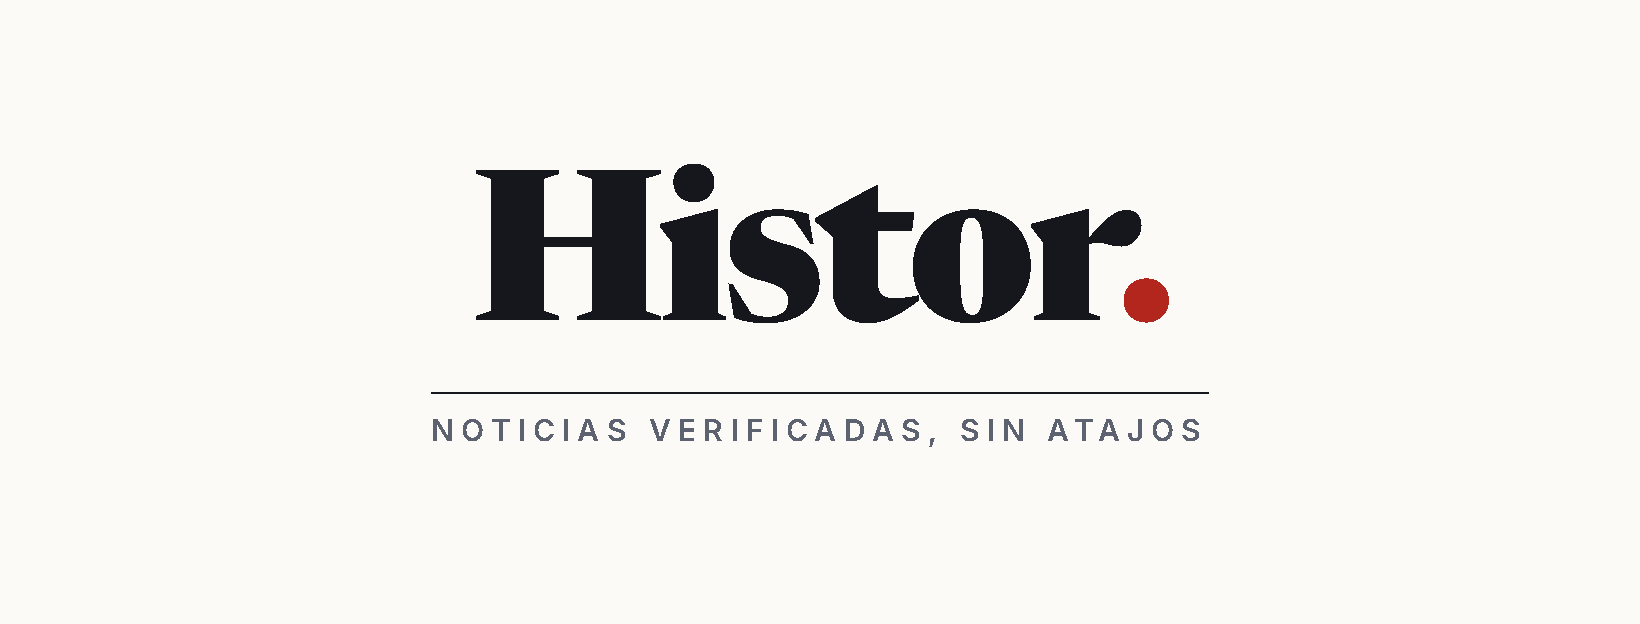
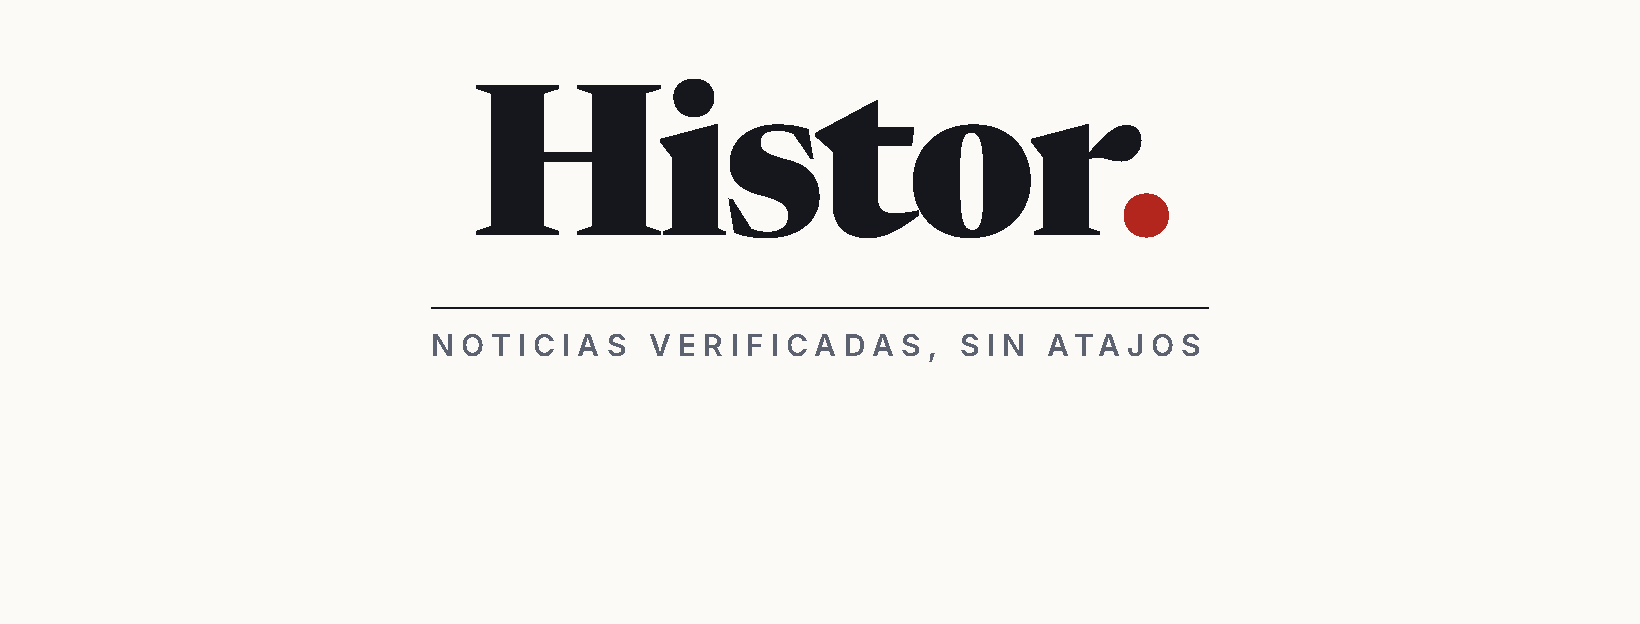
Con AdSense, en Europa manda el mensaje de consentimiento de Google y el nuestro toma de él la respuesta
Fuera del EEE (Google no pregunta) o si su CMP no carga, sale el nuestro como siempre.
Portada de Facebook con el texto arriba (la foto de perfil tapaba el lema).

diff --git a/histor/apps/web/src/components/client/CookieConsent.tsx b/histor/apps/web/src/components/client/CookieConsent.tsx
@@ -6,22 +6,80 @@ type Labels = { title: string; text: string; acceptAll: string; rejectAll: strin
 const OPTIONAL = ['preferences', 'analytics', 'personalization', 'marketing'] as const;
 const CONSENT_VERSION = '1';
 
-export function CookieConsent({ labels, policyHref }: { labels: Labels; policyHref: string }) {
+type TcData = { gdprApplies?: boolean; eventStatus?: string; purpose?: { consents?: Record<string, boolean> } };
+type TcfWindow = Window & {
+  __tcfapi?: (cmd: string, version: number, cb: (tc: TcData, ok: boolean) => void) => void;
+  googlefc?: { callbackQueue: unknown[]; showRevocationMessage?: () => void };
+};
+
+/**
+ * Con anuncios (AdSense), en el EEE, Reino Unido y Suiza manda el mensaje de consentimiento de
+ * Google (CMP certificada, obligatoria para servir anuncios): el nuestro no sale para no pedir
+ * dos veces, y lo que el lector elige allí (propósitos TCF) se traslada a nuestras categorías.
+ * Fuera de esa zona Google no pregunta y sale el nuestro, como siempre; también si su CMP no
+ * carga (bloqueadores). 03-10-2026.
+ */
+function fromTcf(tc: TcData): Set<string> {
+  const p = tc.purpose?.consents ?? {};
+  const out = new Set<string>();
+  if (!p['1']) return out; // sin «guardar y leer información en el dispositivo», nada
+  out.add('preferences');
+  if (p['8'] || p['9']) out.add('analytics');
+  if (p['5'] || p['6']) out.add('personalization');
+  if (p['3'] || p['4']) out.add('marketing');
+  return out;
+}
+
+export function CookieConsent({ labels, policyHref, ads = false }: { labels: Labels; policyHref: string; ads?: boolean }) {
   const [open, setOpen] = useState(false);
   const [custom, setCustom] = useState(false);
   const [choice, setChoice] = useState<Set<string>>(new Set());
 
   useEffect(() => {
+    const w = window as TcfWindow;
     const has = document.cookie.includes('histor_consent_v=');
-    if (!has) setOpen(true);
     setChoice(consentOf());
+    let googleAsks = false;
+    let timer: ReturnType<typeof setTimeout> | null = null;
+    if (ads) {
+      let tries = 0;
+      const attach = () => {
+        if (!w.__tcfapi) {
+          // Sin CMP de Google al cabo de 4 s (bloqueador de anuncios): el nuestro.
+          if (++tries > 20) {
+            if (!has) setOpen(true);
+            return;
+          }
+          timer = setTimeout(attach, 200);
+          return;
+        }
+        w.__tcfapi('addEventListener', 2, (tc, ok) => {
+          if (!ok) return;
+          if (tc.gdprApplies === false) {
+            if (!has) setOpen(true);
+            return;
+          }
+          googleAsks = true;
+          if (tc.eventStatus === 'useractioncomplete' || tc.eventStatus === 'tcloaded') save(fromTcf(tc));
+        });
+      };
+      attach();
+    } else if (!has) setOpen(true);
     const reopen = () => {
+      // «Configurar cookies» del pie: donde pregunta Google, se reabre su mensaje.
+      if (googleAsks && w.googlefc?.showRevocationMessage) {
+        w.googlefc.callbackQueue.push(w.googlefc.showRevocationMessage);
+        return;
+      }
       setOpen(true);
       setCustom(true);
     };
     window.addEventListener('histor:consent', reopen);
-    return () => window.removeEventListener('histor:consent', reopen);
-  }, []);
+    return () => {
+      if (timer) clearTimeout(timer);
+      window.removeEventListener('histor:consent', reopen);
+    };
+  }, [ads]);
 
   const save = (set: Set<string>) => {
     setCookie('histor_consent', [...set].join(','), 365);

diff --git a/histor/docs/marketing/perfil.html b/histor/docs/marketing/perfil.html
@@ -12,7 +12,8 @@
   .mark { font-weight: 800; font-variation-settings: 'opsz' 72; font-size: 620px; letter-spacing: -0.04em; line-height: 1; margin-top: -40px; }
   .dot { color: #b3261e; }
   /* Portada: cabecera completa con su lema entre filetes. */
-  .cover { text-align: center; }
+  /* Arriba: en Facebook la foto de perfil tapa el centro de la parte baja de la portada. */
+  .cover { text-align: center; margin-bottom: 170px; }
   .cover .word { font-weight: 800; font-variation-settings: 'opsz' 72; font-size: 210px; letter-spacing: -0.035em; line-height: 0.9; }
   .cover .tag { font-family: 'Sans'; font-weight: 600; font-size: 30px; letter-spacing: 0.24em; text-transform: uppercase; color: #5d6270; margin-top: 26px; padding-top: 18px; border-top: 2px solid #15171c; }
 </style>

diff --git a/histor/apps/web/src/app/(site)/[lang]/layout.tsx b/histor/apps/web/src/app/(site)/[lang]/layout.tsx
@@ -72,7 +72,7 @@ export default async function SiteLayout({ children, params }: { children: React
           {children}
         </main>
         <Footer lang={lang} d={d} />
-        <CookieConsent labels={d.cookies} policyHref={href.page(lang, 'cookies')} />
+        <CookieConsent labels={d.cookies} policyHref={href.page(lang, 'cookies')} ads={!!adsClient} />
       </body>
     </html>
   );
